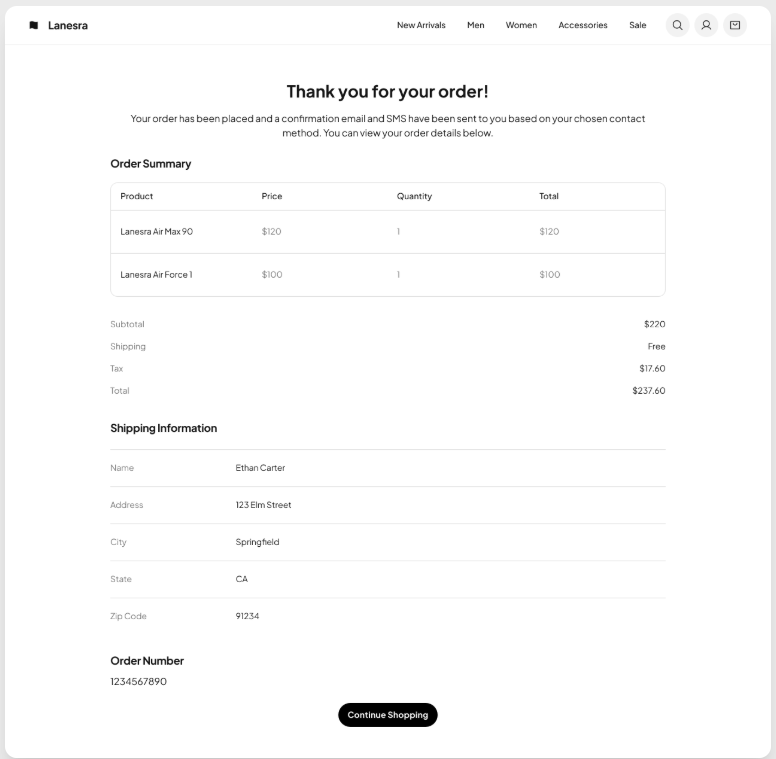
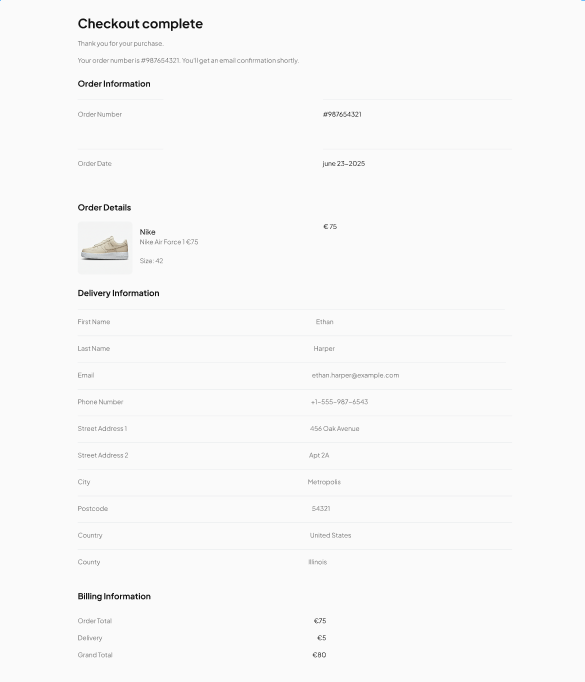
Added order information and order details into order confirmation page

diff --git a/checkout/templates/checkout/checkout_success.html b/checkout/templates/checkout/checkout_success.html
@@ -7,27 +7,92 @@
 
 {% block content %}
 <section class="py-5 bg-light">
-    <div class="container">
+    <!-- ========== Success page intro ========== -->
+    <div class="container" style="padding: 0rem 6rem;">
         <div class="row">
             <div class="col-12">
-                <h6>Checkout complete</h6>
-                <hr>
+                <h6 class="pl-5">Checkout complete</h6>
                 <p class="text-muted">Thank you for your purchase</p>
+                <hr class="mt-1" style="border: none; height: 3px; background-color: #6d8b84; opacity: 0.5;">
                 <p>Your order number is <strong>#{{ order.order_number }}</strong>. 
                     You’ll get an email confirmation shortly.</p>
 
             </div>
         </div>
+        <!-- ========== Order Information ========== -->
         <div class="row">
-            <div class="col-12">
-                
+            <div class="col-12 mb-5">
+                <fieldset class="pt-2">
+                    <legend class="fieldset-label fw-bold">Order Information</legend>
+            
+                    <div class="row">
+                        <div class="col-md-6">
+                            <p class="text-muted text-capitalize mb-1">order date</p>
+                            <hr class="text-muted w-50">
+                            <p class="text-muted text-capitalize mb-1">order number</p>
+                            <hr class="text-muted w-50">
+                        </div>
+                        <div class="col-md-6">
+                            <p class="text-muted">{{ order.date }}</p>
+                            <hr class="text-muted w-75">
+                            <p class="text-muted">{{ order.order_number }}</p>
+                            <hr class="text-muted w-75">
+                        </div>
+                    </div>
+                </fieldset>
+            </div>
+        </div><!-- ========== Order Details ========== -->
+        <div class="row">
+            <div class="col-12 mb-5">
+                <fieldset class="pt-2">
+                    <legend class="fieldset-label fw-bold mb-3">Order Details</legend>
+        
+                    {% for item in order.lineitems.all %}
+                    <div class="row mb-4">
+                        <!-- Image: full row on small screens, column on md+ -->
+                        <div class="col-12 col-md-2 mb-2 mb-md-0">
+                            <img src="{{ item.product.image.url }}" alt="{{ item.product.name }}"
+                                class="img-fluid rounded w-100">
+                        </div>
+        
+                        <div class="col-12 col-md-4">
+                            <p class="mb-1 fw-bold fs-5">{{ item.product.name }}</p>
+                            <p class="mb-1 fs-6 text-muted">{{ item.product.subtitle }}</p>
+                            <p class="mb-1 text-muted">Quantity: {{ item.quantity }}</p>
+                            <p class="mb-1 small">
+                                {% if item.product_size %}
+                                Size:
+                                {{ item.product_size|upper }}
+                                {% else %}
+                            <p class="mb-0 text-muted">Size: <span class="tooltip-text">Free Size</span></p>
+                            {% endif %}
+                            </p>
+                        </div>
+        
+                        <!-- Medium and up: stacked Price -->
+                        <div class="col-12 col-md-6 d-none d-md-block">
+                            <p class="text-muted text-capitalize mb-1">Price</p>
+                            <p class="text-muted">€ {{ item.product.price|floatformat:2 }}</p>
+                        </div>
+        
+                        <!-- Small screens: inline Price: € -->
+                        <div class="col-12 d-block d-md-none">
+                            <p class="text-muted mb-1">Price: € {{ item.product.price|floatformat:2 }}</p>
+                        </div>
+        
+                    </div>
+                    {% endfor %}
+        
+                    <hr class="mt-3" style="border: none; height: 3px; background-color: #6d8b84; opacity: 0.5;">
+                </fieldset>
             </div>
         </div>
+
         <!-- Marketing row -->
          <div class="row">
             <div class="col-12">
                 <a href="" class="btn btn-info my-2">
-                    <span class="icon"></span>
+                    <span class="icon"> Marketing section</span>
                     <span class="text-capitalize"></span>
                 </a>
             </div>

diff --git a/checkout/templates/checkout/checkout.html b/checkout/templates/checkout/checkout.html
@@ -141,9 +141,14 @@
                             <div>
                                 <p class="mb-1"><strong>{{ item.product.name }}</strong></p>
                                 <p class="mb-1 small">Qty: {{ item.quantity }}</p>
-                                <p class="mb-1 small">Size:
-                                    {% if item.selected_size %}{{ item.selected_size|upper }}
-                                    {% else %}N/A{% endif %}</p>
+                                <p class="mb-1 small">
+                                    {% if item.selected_size %}
+                                        Size: 
+                                        {{ item.selected_size|upper }}
+                                    {% else %}
+                                        <p class="mb-0 text-muted">Size: <span class="tooltip-text">Free Size</span></p>
+                                    {% endif %}
+                                </p>
                             </div>
                         </div>
                         <!-- Show line item total -->
